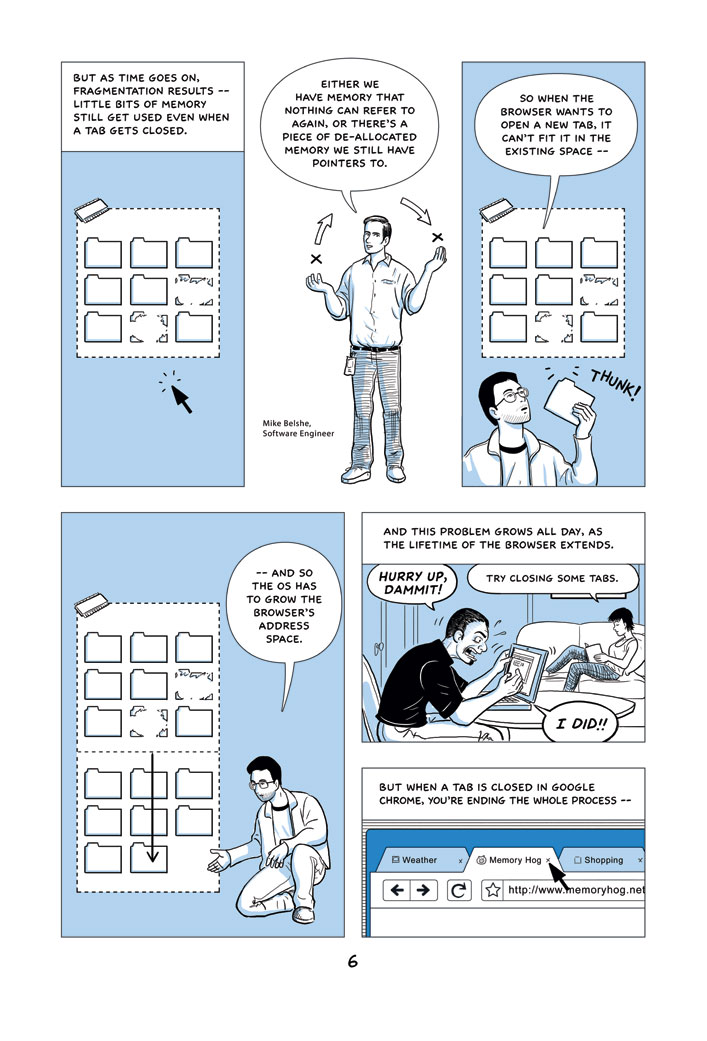
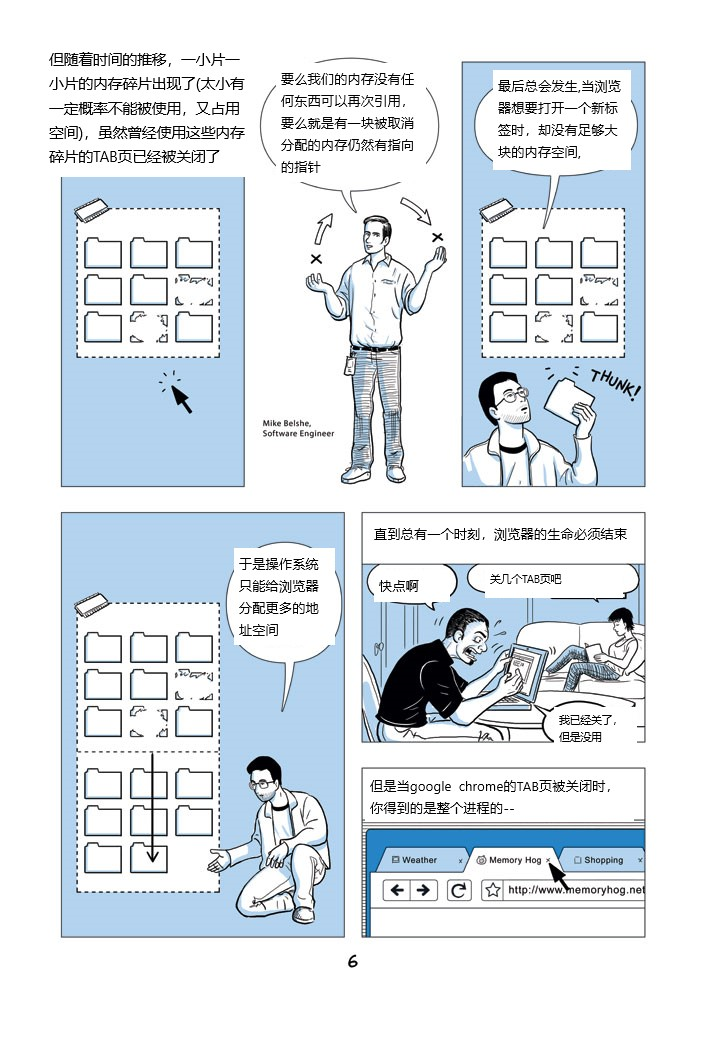
delete all en jpg

diff --git a/README.md b/README.md
@@ -66,3 +66,49 @@ chrome 进程管理
 于是，每个进程渲染不同的TAB页
 
 ---
+
+现在你也有了单独的JAVASCRIPT线程
+
+如果一个TAB繁忙,你仍然可以使用其他的TAB页
+
+并且如果一个TAB页上出现bug(我们几乎不可能消灭所有的bug),我们也只丢失了一个TAB页
+
+当一个TAB崩溃时会出现一个“悲伤标签”，但它没有使整个浏览器崩溃。
+
+这个就是“悲伤标签”
+
+一个多进程设计意味着使用一点更多的内存。每个进程都有一个固定的额外内存占用
+
+但随着时间的推移，它也意味着更少的内存膨胀。
+
+在传统的浏览器中，您只有一个进程和一个地址空间，你一直在其中加载网页页面。
+
+当你有太多标签页打开，可以关闭一些释放内存
+
+当你打开一个新Tab页，使用的内存是之前使用过的。
+
+---
+
+但随着时间的推移，一小片一小片的内存碎片出现了(太小有一定概率不能被使用，又占用空间)，虽然曾经使用这些内存碎片的TAB页已经被关闭了
+
+either we have memory that nothing can refer to again, or there's a piece of de-allocated memory we still have pointers to
+
+要么我们的内存没有任何东西可以再次引用，要么就是有一块被取消分配的内存仍然有指向的指针
+
+最后总会发生,当浏览器想要打开一个新标签时，却没有足够大块的内存空间,
+
+于是操作系统只能给浏览器分配更多的地址空间
+
+直到总有一个时刻，浏览器的生命必须结束
+
+快点啊
+
+关几个TAB页
+
+我已经关了，但是没用
+
+但是当google  chrome的TAB页被关闭时，你得到的是整个进程的--
+
+---
+
+--内存，所有的一整块内存都被释放
